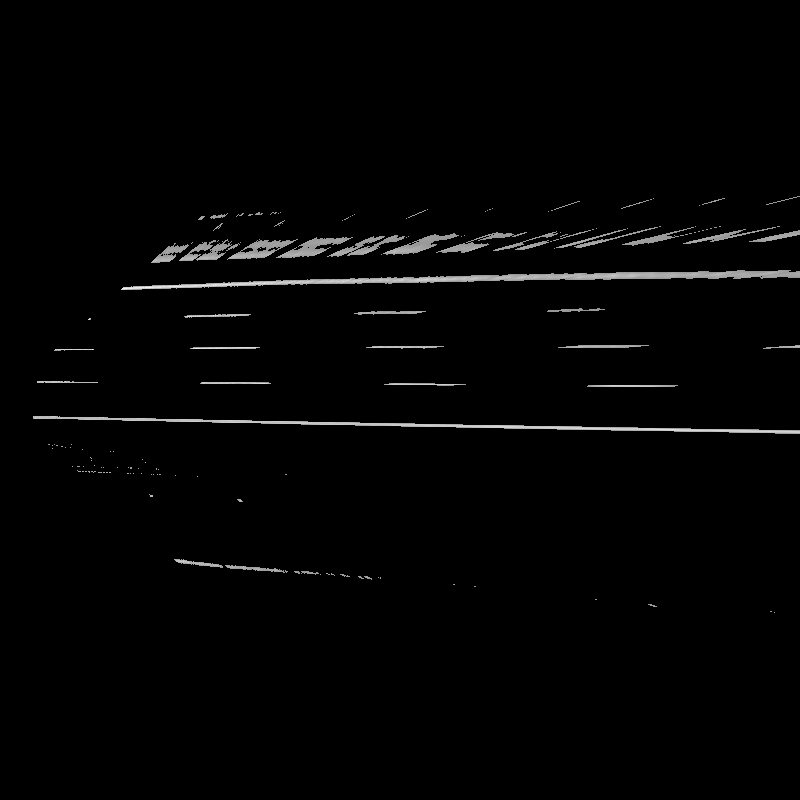
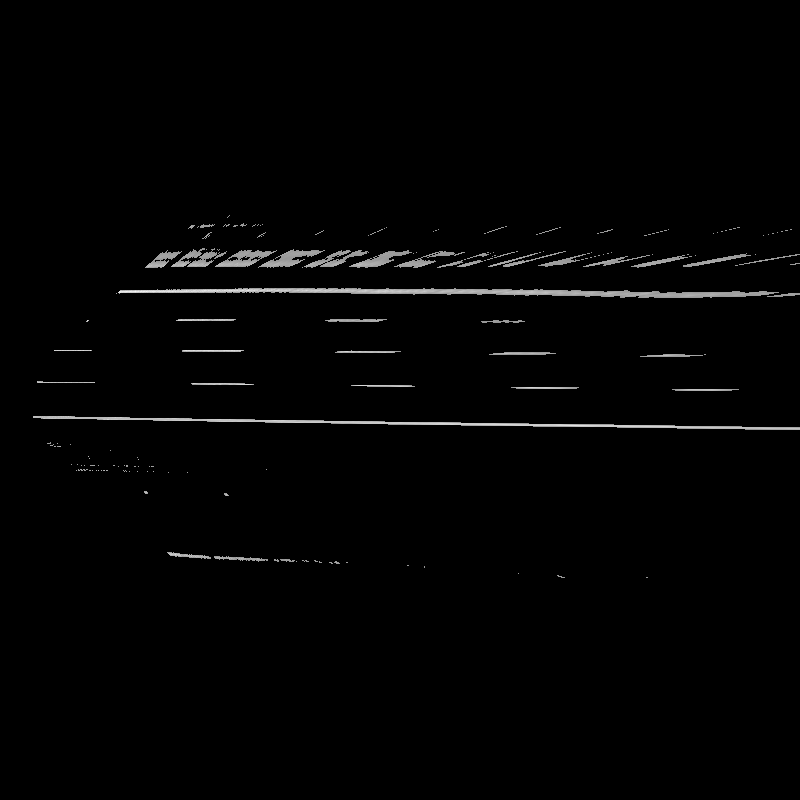
full screen output

diff --git a/ipm.py b/ipm.py
@@ -23,14 +23,14 @@ def ipm_from_parameters(image, xyz, K, RT, interpolation_fn):
     pixel_coords = perspective(xyz, P, TARGET_H, TARGET_W)
     image2 = interpolation_fn(image, pixel_coords)
     return image2.astype(np.uint8)
-
+'''
 def ipm_from_opencv(image, source_points, target_points):
     # Compute projection matrix
     M = cv2.getPerspectiveTransform(source_points, target_points)
     # Warp the image
     warped = cv2.warpPerspective(image, M, (TARGET_W, TARGET_H), flags=cv2.INTER_LINEAR, borderMode=cv2.BORDER_CONSTANT,borderValue=0)
     return warped
-
+'''
 def warp(pitch):
     # Derived method
     plane = Plane(0, -40, 0, 0, 0, 0, TARGET_H, TARGET_W, 0.1)
@@ -71,6 +71,7 @@ def get_lines():
     canny_out = cv2.Canny(blur_gray, low_threshold, high_threshold)
     cv2.imwrite('canny_out.png',canny_out)
     
+    #find lines
     lines = cv2.HoughLines(canny_out, 1, np.pi / 180, 250)
     for line in lines:
         rho,theta = line[0]
@@ -89,6 +90,8 @@ def get_lines():
         cv2.line(threshold_filter_gray, (x1, y1), (x2, y2), (0, 0, 255), 1)
         m.add((y2 - y1)/(x2-x1))
 
+    cv2.namedWindow("image", cv2.WND_PROP_FULLSCREEN)
+    cv2.setWindowProperty("image",cv2.WND_PROP_FULLSCREEN,cv2.WINDOW_FULLSCREEN)
     cv2.imshow('image', threshold_filter_gray)
     cv2.imwrite('lines.png', threshold_filter_gray)
     print(m)
@@ -109,21 +112,19 @@ if __name__ == '__main__':
         filter_out_dark_pixels()
         sleep(0.1)
         m = get_lines()        
-        m.remove("")
-        
+        #m.remove("")        
         print(m)
 
-        if(len(m) == 2):
-            diff = abs(list(m)[0] - list(m)[1])            
-            print("diff : " + str(diff))
+        #if(len(m) == 2):
+            #diff = abs(list(m)[0] - list(m)[1])            
+            #print("diff : " + str(diff))
             #if(diff_min > diff ):
             #    diff_min = diff
             #else:
             #    break
+        #print()
 
-        print()
-
-        pitch = pitch + 0.0005
+        pitch = pitch + 0.001
         json_object['pitch'] = pitch
         a_file = open("camera.json", "w")
         json.dump(json_object, a_file)
